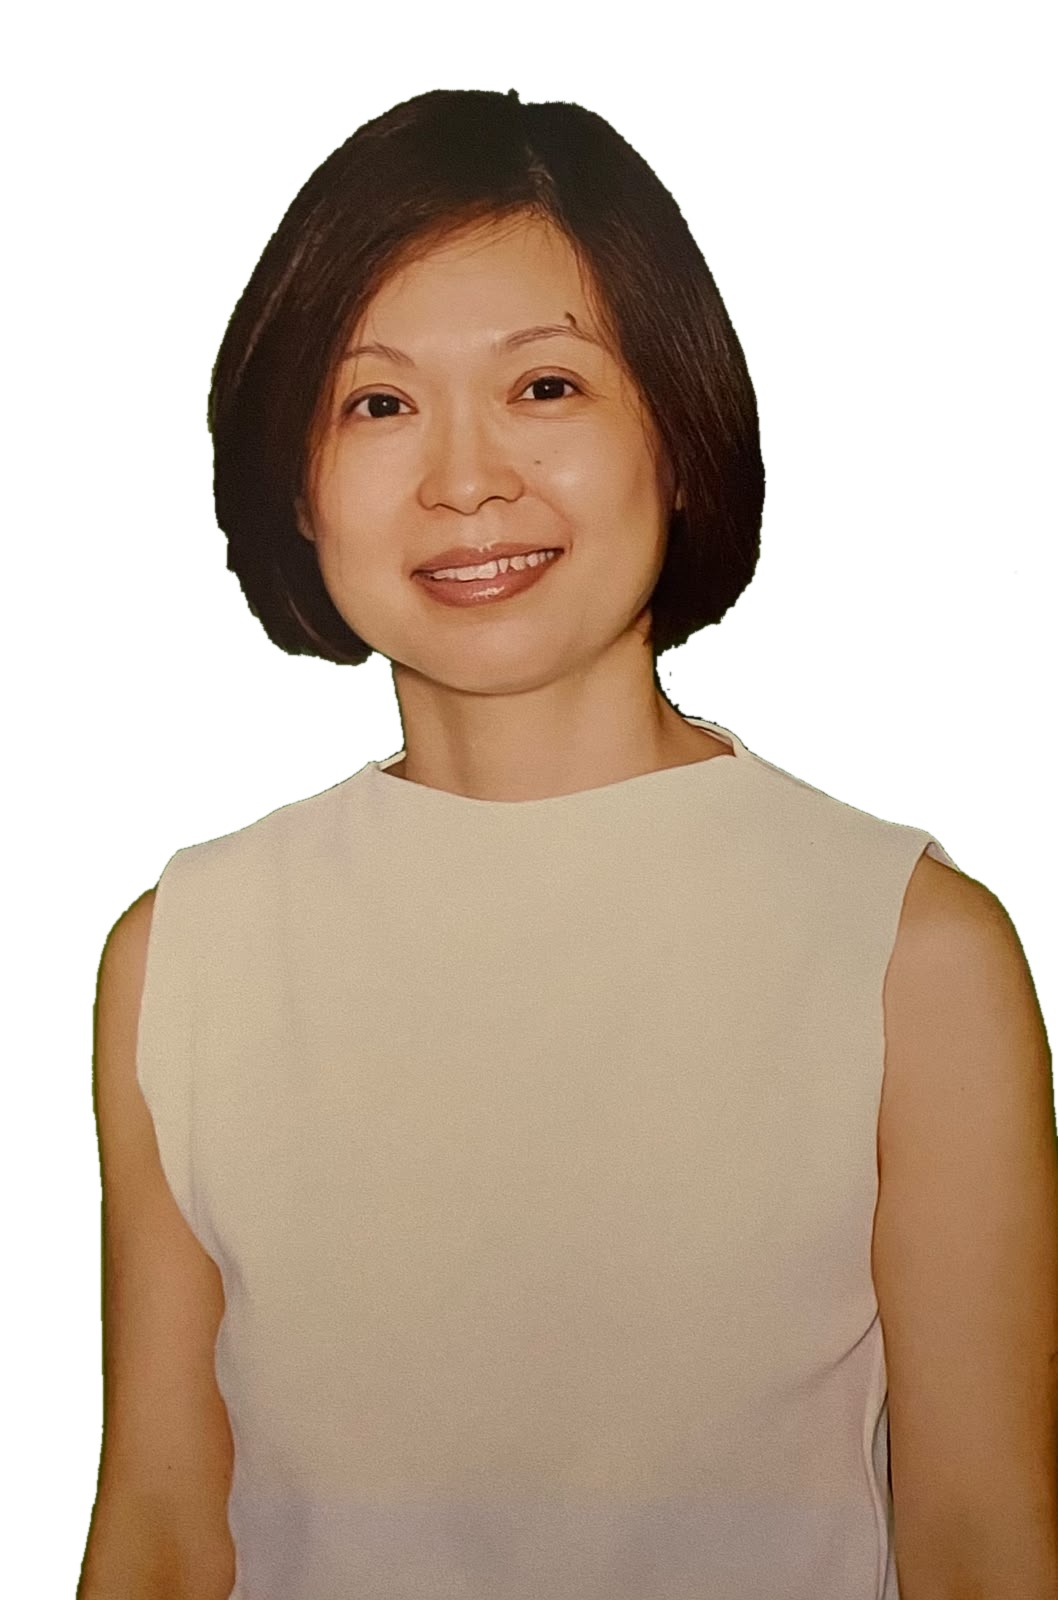
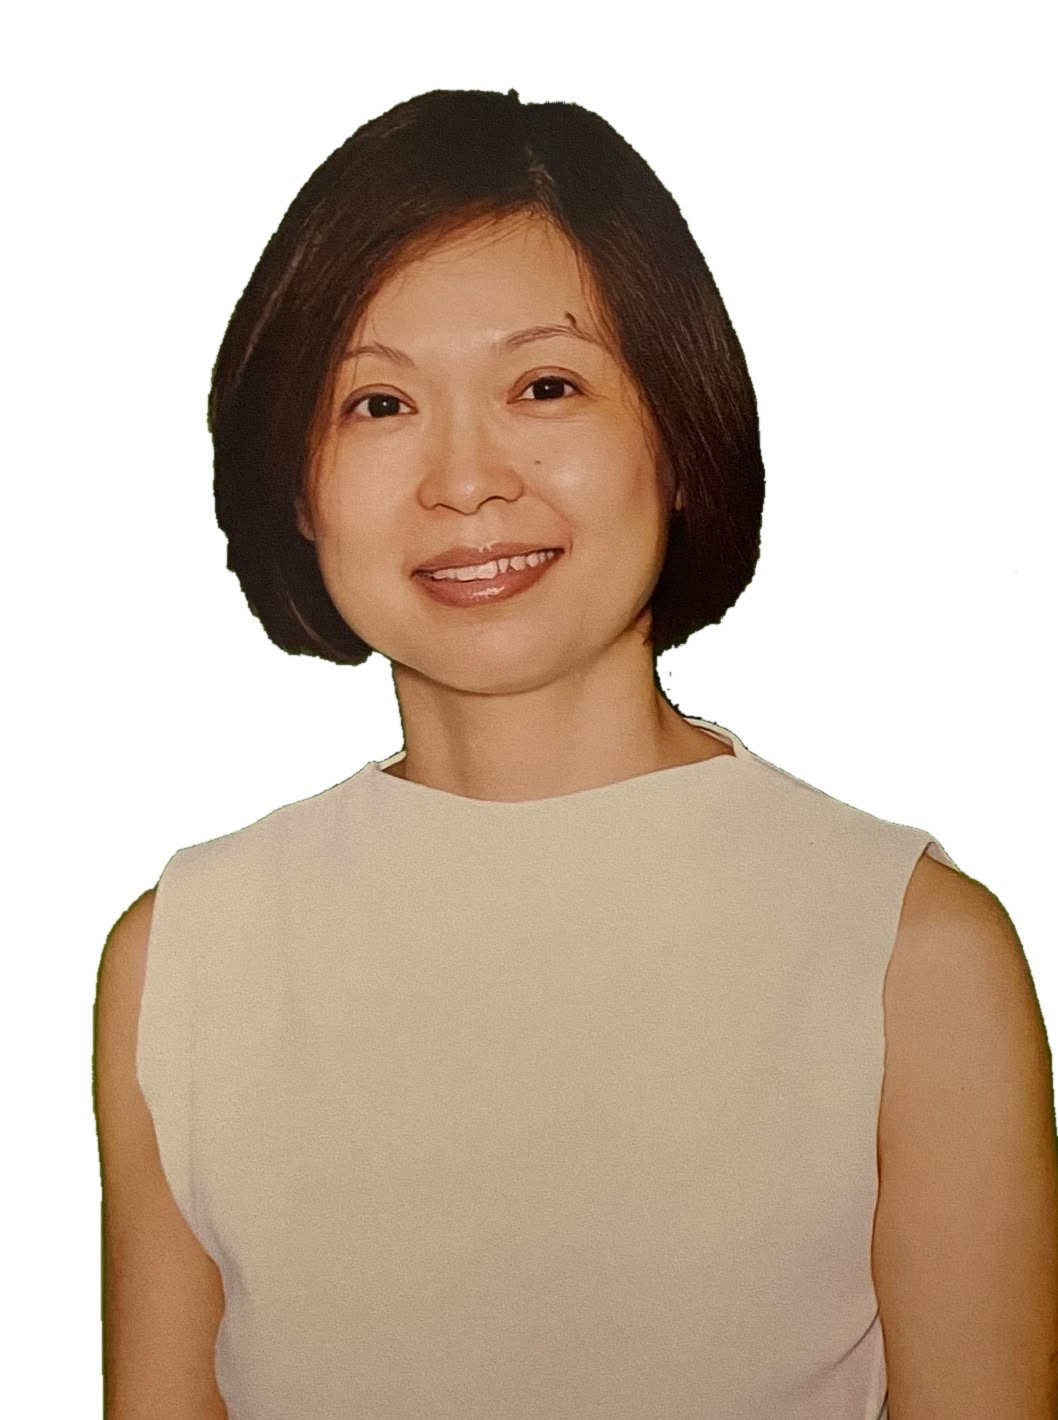
Refine Teacher Jen portrait framing
Match the team card proportions and version the image URLs so the new crop appears immediately.

diff --git a/index.html b/index.html
@@ -932,8 +932,8 @@
           <div class="team-card">
             <div class="team-photo">
               <picture>
-                <source srcset="images/Teacher_Jen.webp" type="image/webp" />
-                <img src="images/Teacher_Jen.jpg" alt="Teacher Jen at Genius Gems Childcare Centre" loading="lazy" width="1058" height="1600" onerror="this.parentElement.parentElement.classList.add('photo-placeholder'); this.style.display='none'" />
+                <source srcset="images/Teacher_Jen.webp?v=20261116b" type="image/webp" />
+                <img src="images/Teacher_Jen.jpg?v=20261116b" alt="Teacher Jen at Genius Gems Childcare Centre" loading="lazy" width="1058" height="1420" onerror="this.parentElement.parentElement.classList.add('photo-placeholder'); this.style.display='none'" />
               </picture>
               <div class="photo-placeholder-icon"><i class="fas fa-user"></i></div>
             </div>
